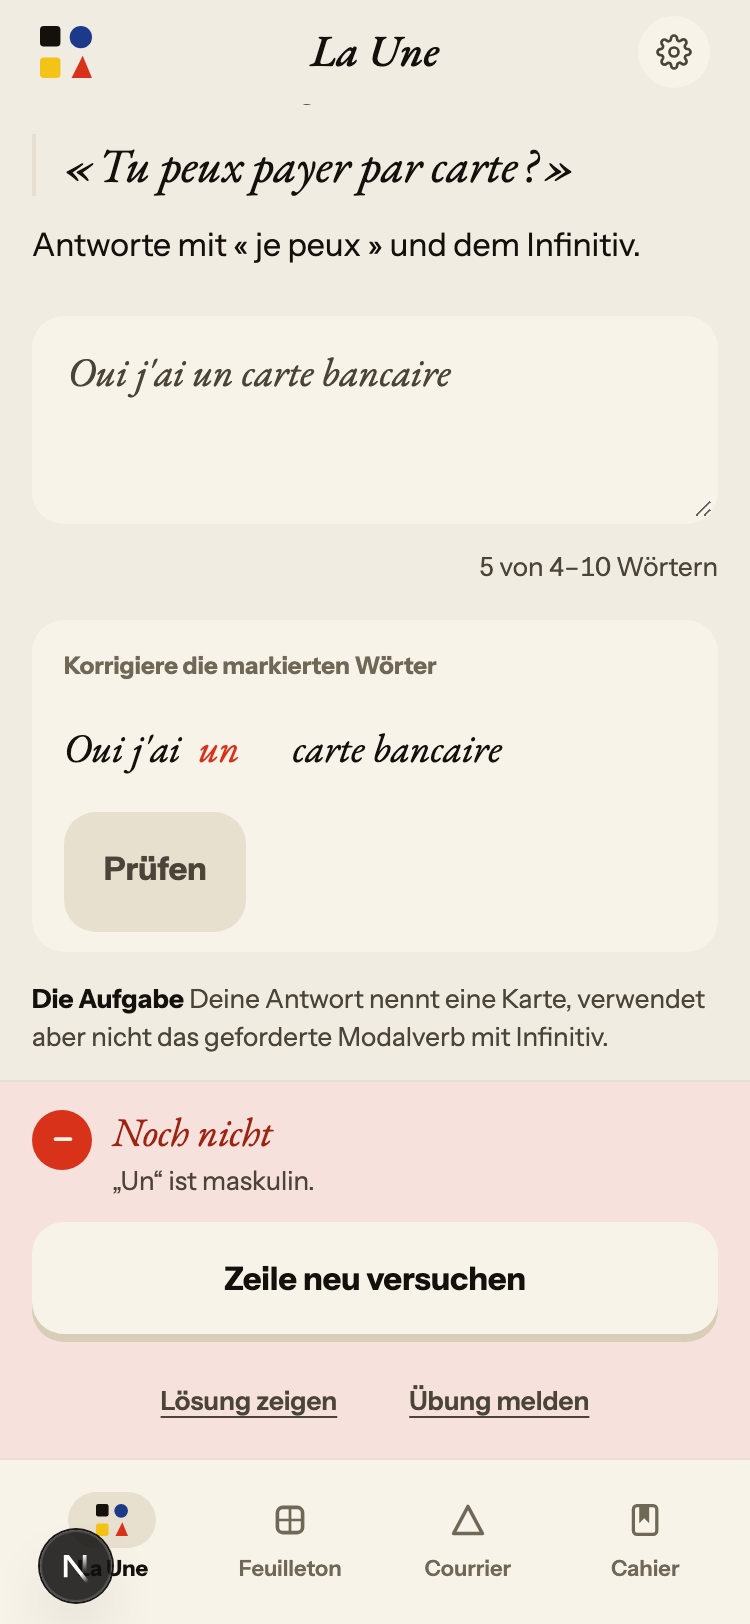
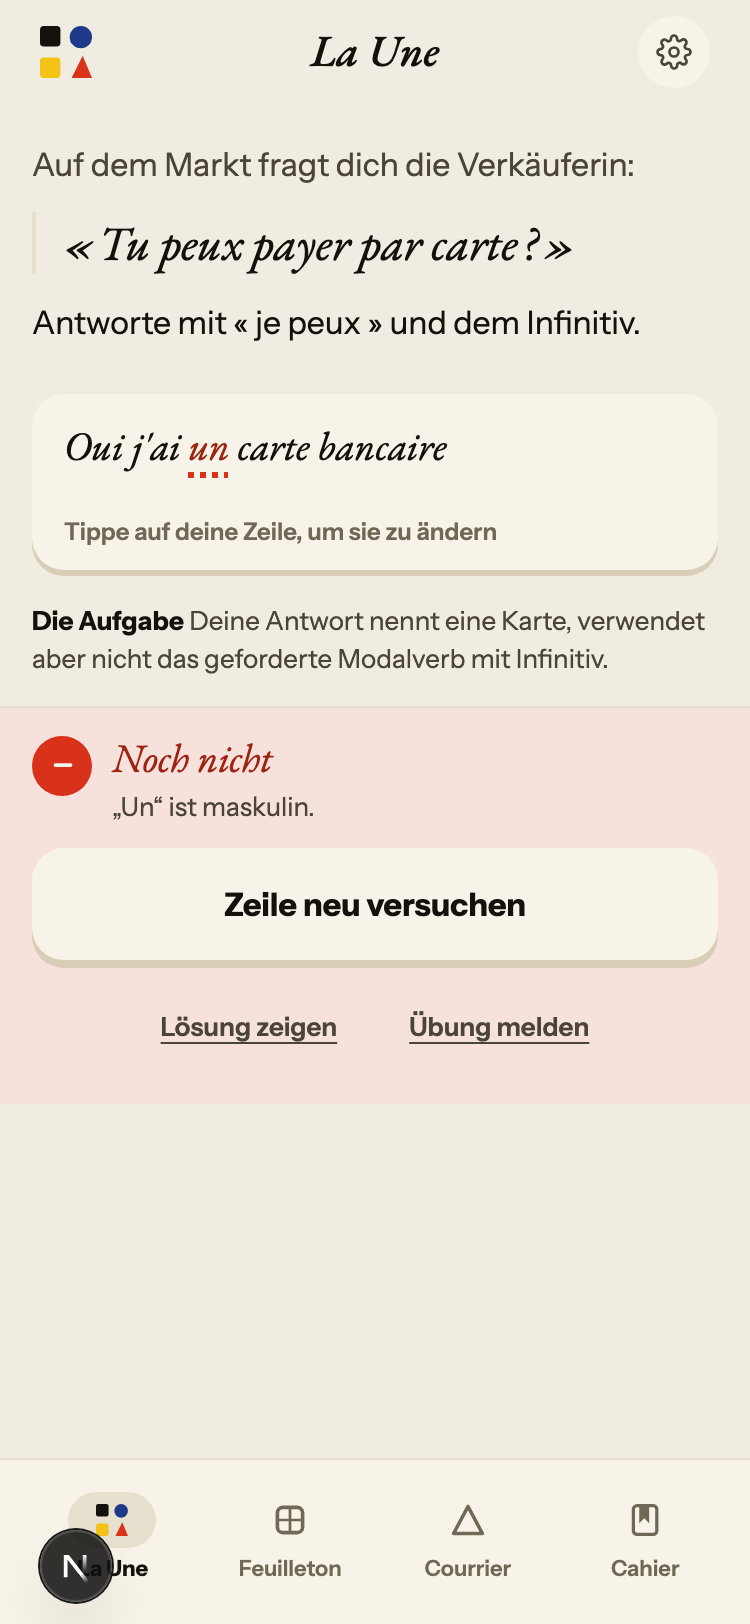
feat(forge): one button, one card, the listen button in the line
- A free line fixed in place is checked from the band: one button, no
  second «Check» in the card, no third link.
- Once the solution is shown, the right line and its copy field are one
  card.
- A right line that is the model line is heard from its own corner; the
  sentence is not printed a third time to be heard.
- The marked word is lifted in dark mode, as the band's title is.

Screens retaken for every state (docs/walks/2026-11-19-forge-calm-miss).

diff --git a/web-frontend/pages/atelier.tsx b/web-frontend/pages/atelier.tsx
@@ -4190,19 +4190,22 @@ function CheckedLine({
   state,
   line,
   correction,
-  production = false,
   onEdit,
+  listen = '',
 }: {
   state: AnswerState;
   line: string;
   correction: Record<string, any> | null;
-  production?: boolean;
   onEdit?: () => void;
+  /** The model line to hear. When it is the line the learner wrote, its button sits in the line's corner. */
+  listen?: string;
 }) {
   const t = useEpCopy();
   const text = String(line || '').trim();
   if (!state || !text) return null;
-  if (state === 'right') return <EpAnswerLine tone="right" segments={[{ text }]} />;
+  if (state === 'right') {
+    return <EpAnswerLine tone="right" segments={[{ text }]} foot={heardInPlace(state, text, listen) ? <EpreuveModelAudio text={listen} compact /> : undefined} />;
+  }
   if (state === 'open') {
     const marked = String(correction?.marked_line || text);
     return <EpAnswerLine tone="open" segments={markedLine(marked, correction?.marks)} onEdit={onEdit} editHint={onEdit ? t.answer_edit : undefined} />;
@@ -4212,6 +4215,11 @@ function CheckedLine({
     ? parts.map((part) => ('text' in part ? { text: part.text } : { text: part.wrong, marked: true }))
     : [{ text }];
   return <EpAnswerLine tone="shown" segments={segments} />;
+}
+
+/** A right line that is also the model line is heard from its own corner, not printed again. */
+function heardInPlace(state: AnswerState, line: string, listen: string) {
+  return state === 'right' && Boolean(listen.trim()) && normalizeClient(listen) === normalizeClient(line);
 }
 
 /** Is the checked line drawn by the panel (true), or is the field still the answer's place? */
@@ -4419,8 +4427,6 @@ export function ExerciseFeedbackMoment({
               setPartsTyped((prev) => ({ ...prev, [repairKey]: next }));
               onSetRepairDraft(repairKey, assembleRepair(inPlace, next));
             }}
-            onSubmit={() => onSubmitRepair(0)}
-            submitting={!!repairSubmitting[repairKey]}
           >
             {more}
           </EpPartsRepair>
@@ -4428,10 +4434,20 @@ export function ExerciseFeedbackMoment({
         {hints.task && hints.task !== hints.reason && <EpTaskLine label={t.task}>{hints.task}</EpTaskLine>}
         <EpFoot tone="wrong">
           <EpVerdict tone="no" sub={hints.reason || t.miss_sub} coach={coach} coachMood={mood} attempt={attempt}>{t.verdict_wrong}</EpVerdict>
-          {/* A line fixed in place has its own «Check»: writing it again whole is the quiet way. */}
+          {/* One button either way. A line fixed in place is checked from here; any other is opened again. */}
+          {inPlace && (
+            <EpBar
+              tone="go"
+              icon="check"
+              disabled={Object.keys(partsTyped[repairKey] || {}).length === 0}
+              pending={!!repairSubmitting[repairKey]}
+              onClick={() => onSubmitRepair(0)}
+            >
+              {repairSubmitting[repairKey] ? t.repair_submitting : t.repair_submit}
+            </EpBar>
+          )}
           {onTryAgain && !inPlace && <EpBar tone="ghost" icon="retry" onClick={onTryAgain}>{production ? t.retry_line : t.retry}</EpBar>}
           <div className="ep-fb-links">
-            {onTryAgain && inPlace && <button type="button" data-action="rewrite" onClick={onTryAgain}>{t.retry_line}</button>}
             {onRevealSolution && (
               <button type="button" data-action="reveal" onClick={onRevealSolution} disabled={revealing} aria-busy={revealing || undefined}>
                 {revealing ? t.showing_solution : t.show_solution}
@@ -4905,11 +4921,11 @@ function TransformPanel({
   const sentence = String(item.source_fr || item.source || '');
   // La Forge says a miss's right line once, in its correction; a right answer
   // hears it here.
-  const modelAudio = submitted && !solutionWithheld(correction) && !(drill && correction?.verdict !== 'correct') && (() => {
+  const modelText = submitted && !solutionWithheld(correction) && !(drill && correction?.verdict !== 'correct') && (() => {
     const corrected = correction?.corrected_answer;
     const correctedForItem = corrected && typeof corrected === 'object' ? corrected[item.id] : undefined;
     const modelText = String(correctedForItem || item.expected_answer || answers[item.id] || '').trim();
-    return modelText ? <EpreuveModelAudio text={modelText} /> : null;
+    return modelText;
   })();
   if (spotted) {
     // The sentence is the exercise: its goal above it, never the sentence twice.
@@ -4929,7 +4945,7 @@ function TransformPanel({
           copy={fc}
           fixWords={item.fix_words}
         />
-        {modelAudio}
+        {modelText ? <EpreuveModelAudio text={modelText} /> : null}
       </div>
     );
   }
@@ -4940,7 +4956,7 @@ function TransformPanel({
         {item.source}
       </EpPrompt>
       {lineIsEchoed(answerState, String(answers[item.id] || ''), correction, false) ? (
-        <CheckedLine state={answerState} line={String(answers[item.id] || '')} correction={correction} onEdit={onRetry} />
+        <CheckedLine state={answerState} line={String(answers[item.id] || '')} correction={correction} onEdit={onRetry} listen={modelText || ''} />
       ) : (
         <textarea
           className="ep-composed-input"
@@ -4950,7 +4966,7 @@ function TransformPanel({
           readOnly={submitted || sending}
         />
       )}
-      {modelAudio}
+      {modelText && !heardInPlace(answerState, String(answers[item.id] || ''), modelText) ? <EpreuveModelAudio text={modelText} /> : null}
     </div>
   );
 }
@@ -5133,7 +5149,7 @@ function browserSpeak(text: string, onDone: () => void) {
   if (!speakAskedVoice(utterance)) onDone();
 }
 
-function EpreuveModelAudio({ text }: { text: string }) {
+function EpreuveModelAudio({ text, compact = false }: { text: string; compact?: boolean }) {
   const [playing, setPlaying] = useState(false);
   const value = String(text || '').trim();
   if (!value) return null;
@@ -5153,7 +5169,7 @@ function EpreuveModelAudio({ text }: { text: string }) {
       browserSpeak(value, () => setPlaying(false));
     }
   };
-  return <EpListen fr={value} playing={playing} onPlay={play} />;
+  return <EpListen fr={compact ? undefined : value} playing={playing} onPlay={play} />;
 }
 
 function EpreuveWiringStyles() {
@@ -5303,6 +5319,9 @@ export function OutputLadderPanel({
   const speakerInFigure = Boolean(round === 'conversation' && split && character.name);
   // The prompt's own instruction says what to do: the generic round cue would say it twice.
   const promptCue = split?.instruction ? item.instruction || undefined : item.instruction || instruction;
+  const modelText = submitted
+    ? String(seanceAssessment(correction) === 'correct' && productionPhase(correction) !== 'checking' ? correction?.corrected_answer || item.example_answer || '' : '').trim()
+    : '';
   return (
     <div className={`ep-exercise ep-output ep-output-${round}`} data-prompt={split ? 'scene' : 'line'}>
       {round === 'conversation' && character.name && !speakerInFigure && (
@@ -5343,7 +5362,7 @@ export function OutputLadderPanel({
       )}
       {/* Once checked, the line is read where it was written; the count was for writing it. */}
       {answerState && answer.trim() ? (
-        lineIsEchoed(answerState, answer, correction, true) && <CheckedLine state={answerState} line={answer} correction={correction} production onEdit={onRetry} />
+        lineIsEchoed(answerState, answer, correction, true) && <CheckedLine state={answerState} line={answer} correction={correction} onEdit={onRetry} listen={modelText} />
       ) : (
         <>
           <textarea
@@ -5358,10 +5377,7 @@ export function OutputLadderPanel({
           </div>
         </>
       )}
-      {submitted && (() => {
-        const modelText = String(seanceAssessment(correction) === 'correct' && productionPhase(correction) !== 'checking' ? correction?.corrected_answer || item.example_answer || '' : '').trim();
-        return modelText ? <EpreuveModelAudio text={modelText} /> : null;
-      })()}
+      {modelText && !heardInPlace(answerState, answer, modelText) ? <EpreuveModelAudio text={modelText} /> : null}
       {round === 'conversation' && submitted && worldReply.text && (
         <blockquote className="ep-world-reply">
           <span>{worldReply.character?.name || character.name}</span>
@@ -5430,7 +5446,7 @@ function ProducePanel({
         </div>
       )}
       {answerState && answer.trim() ? (
-        lineIsEchoed(answerState, answer, correction, true) && <CheckedLine state={answerState} line={answer} correction={correction} production onEdit={onRetry} />
+        lineIsEchoed(answerState, answer, correction, true) && <CheckedLine state={answerState} line={answer} correction={correction} onEdit={onRetry} />
       ) : (
         <>
           <textarea className="ep-composed-input" value={answer} onChange={(event) => updateAnswer(event.target.value)} placeholder={t.produce_placeholder} readOnly={submitted || sending} />

diff --git a/web-frontend/components/epreuve/Epreuve.tsx b/web-frontend/components/epreuve/Epreuve.tsx
@@ -721,12 +721,15 @@ export function EpAnswerLine({
   tone,
   onEdit,
   editHint,
+  foot,
 }: {
   segments: AnswerSegment[];
   tone: 'open' | 'shown' | 'right';
   /** The second chance: a tap on the line opens it again, as the learner wrote it. */
   onEdit?: () => void;
   editHint?: Node;
+  /** A right line's own listen button, in its corner: the line is not printed again to be heard. */
+  foot?: Node;
 }) {
   const line = (
     <span className="ep-answer__line" lang="fr">
@@ -743,7 +746,12 @@ export function EpAnswerLine({
       </button>
     );
   }
-  return <p className="ep-answer" data-tone={tone}>{line}</p>;
+  return (
+    <div className="ep-answer" data-tone={tone}>
+      {line}
+      {foot && <div className="ep-answer__foot">{foot}</div>}
+    </div>
+  );
 }
 
 /* ---------- typed micro-repair ---------- */
@@ -910,7 +918,7 @@ export function EpPartsRepair({
 }
 
 /* ---------- écouter + shadowing ---------- */
-export function EpListen({ fr, disabled, playing, onPlay }: { fr: Node; disabled?: boolean; playing?: boolean; onPlay?: () => void }) {
+export function EpListen({ fr, disabled, playing, onPlay }: { fr?: Node; disabled?: boolean; playing?: boolean; onPlay?: () => void }) {
   const t = useEpCopy();
   const label = disabled ? t.listen_unavailable : playing ? t.listen_playing : t.listen;
   return (
@@ -918,10 +926,13 @@ export function EpListen({ fr, disabled, playing, onPlay }: { fr: Node; disabled
       <IconAction label={label} pressable onClick={onPlay} disabled={disabled} pending={playing}>
         {playing ? <SpinnerToken /> : EpIco.play}
       </IconAction>
-      <div className="ep-listen__text">
-        <p className="av2-label">{label}</p>
-        <p className="av2-fr ep-listen__fr" lang="fr">{fr}</p>
-      </div>
+      {/* Without its line the button stands alone: the line is on screen where it was written. */}
+      {fr != null && (
+        <div className="ep-listen__text">
+          <p className="av2-label">{label}</p>
+          <p className="av2-fr ep-listen__fr" lang="fr">{fr}</p>
+        </div>
+      )}
     </div>
   );
 }
@@ -1437,7 +1448,6 @@ export function LEpreuveStyles() {
   justify-content: space-between;
   gap: 14px;
   width: 100%;
-  min-height: 5.5rem;
   margin: 0;
   padding: 0.75rem 1rem;
   border: 0;
@@ -1448,6 +1458,8 @@ export function LEpreuveStyles() {
   font: inherit;
   animation: av2-fade 0.25s;
 }
+.av2 .ep-answer[data-tone='open'] { min-height: 5.5rem; }
+.av2 .ep-answer__foot { display: flex; justify-content: flex-end; }
 .av2 button.ep-answer { box-shadow: 0 var(--av2-press-sm) 0 var(--av2-line-2); cursor: pointer; touch-action: manipulation; }
 .av2 button.ep-answer:active { transform: translateY(var(--av2-press-sm)); box-shadow: none; }
 .av2 .ep-answer__line { font-family: var(--av2-serif); font-style: italic; font-size: var(--av2-t-option); line-height: 1.4; overflow-wrap: anywhere; }
@@ -1458,6 +1470,14 @@ export function LEpreuveStyles() {
 .av2 .ep-answer[data-tone='right'] .ep-answer__line { color: var(--av2-green); }
 .av2 .ep-output > .ep-answer,
 .av2 .ep-produce-panel > .ep-answer { margin-top: 8px; }
+/* The second chance taken in place: the same well, the marked words as fields, and the
+   gesture said under the line as it is under a marked one. Its «Check» is the band's. */
+.av2 .ep-feedback[data-in-place='true'] > .ep-repair--parts { padding: 0.75rem 1rem; gap: 6px; box-shadow: none; }
+.av2 .ep-feedback[data-in-place='true'] > .ep-repair--parts > .av2-field__label { order: 2; margin: 0; font: 600 var(--av2-t-meta)/1.3 var(--av2-sans); color: var(--av2-muted); }
+.av2 .ep-feedback[data-in-place='true'] > .ep-repair--parts > .ep-more { order: 3; }
+/* Once the solution is shown, the right line and its copy are one card, not two. */
+.av2 .ep-feedback > .ep-galley:has(+ .ep-repair) { border-bottom-left-radius: 0; border-bottom-right-radius: 0; padding-bottom: 4px; }
+.av2 .ep-feedback > .ep-galley + .ep-repair { margin-top: -14px; padding: 10px 12px 14px; border-top-left-radius: 0; border-top-right-radius: 0; box-shadow: none; }
 .av2 .ep-composed-input::placeholder { color: var(--av2-muted); font-style: italic; }
 .av2 .ep-composed-input[readonly] { color: var(--av2-ink-2); }
 .av2 .ep-field__ph { color: var(--av2-muted); }

diff --git a/web-frontend/components/epreuve/forge-beauty.test.js b/web-frontend/components/epreuve/forge-beauty.test.js
@@ -466,7 +466,8 @@ test('a miss with its chance open is read in two places: the line and the band (
   assert.doesNotMatch(PAGE, /miss_choice|miss_where/, 'the cards\' labels are gone');
   // The typed line takes its field's place in every panel that has one.
   assert.equal((PAGE.match(/<CheckedLine state=\{answerState\}/g) || []).length, 3, 'transform, free line and produce draw the checked line');
-  assert.match(PAGE, /\{onTryAgain && !inPlace && <EpBar tone="ghost" icon="retry"/, 'a line fixed in place has one button, its own «Check»');
+  assert.match(PAGE, /\{onTryAgain && !inPlace && <EpBar tone="ghost" icon="retry"/, 'a line fixed in place has one button, the band\'s «Check»');
+  assert.match(withheld, /\{inPlace && \(\s*<EpBar\s+tone="go"/, 'which checks the line fixed in place');
   const ep = fs.readFileSync(path.join(__dirname, 'Epreuve.tsx'), 'utf8');
   assert.match(ep, /export function EpAnswerLine\(/);
   assert.match(ep, /<button type="button" className="ep-answer" data-tone=\{tone\} onClick=\{onEdit\}>/, 'a tap on the marked line opens it again');

diff --git a/web-frontend/components/epreuve/forge-drills.test.js b/web-frontend/components/epreuve/forge-drills.test.js
@@ -395,7 +395,7 @@ test('the page poses each format: typed, dictation, spot and mine, rafale', () =
   assert.match(transform, /updateAnswer\(item\.id, spotChanged\(tokens, edits\) \? spotAnswer\(tokens, edits\) : ''\);/);
   // The right line once: a miss reads it in its correction, a right answer hears it.
   // Owner 2026-11-13: and never while a second chance is open.
-  assert.match(transform, /const modelAudio = submitted && !solutionWithheld\(correction\) && !\(drill && correction\?\.verdict !== 'correct'\) && /);
+  assert.match(transform, /const modelText = submitted && !solutionWithheld\(correction\) && !\(drill && correction\?\.verdict !== 'correct'\) && /);
 
   const session = PAGE.slice(PAGE.indexOf('function SessionView('), PAGE.indexOf('function ActionRow('));
   assert.match(session, /\{isNamedDrill\(drill\) && \(drill !== 'rafale' \|\| rafale\) && <ForgeDrillTag drill=\{drill\} copy=\{fc\} \/>\}/);

diff --git a/web-frontend/styles/atelier-v2.css b/web-frontend/styles/atelier-v2.css
@@ -2508,6 +2508,18 @@
     color: var(--av2-red);
   }
 }
+/* The marked word of a missed line (EpAnswerLine) is body-size text on the dark card:
+   the same lift, for the same reason. */
+:root[data-theme='dark'] .av2:not(.av2--light) .ep-answer[data-tone='open'] .ep-mark,
+.av2--dark .ep-answer[data-tone='open'] .ep-mark {
+  color: var(--av2-red);
+}
+@media (prefers-color-scheme: dark) {
+  :root[data-theme='system'] .av2:not(.av2--light) .ep-answer[data-tone='open'] .ep-mark,
+  :root:not([data-theme]) .av2:not(.av2--light) .ep-answer[data-tone='open'] .ep-mark {
+    color: var(--av2-red);
+  }
+}
 
 /* WP-77 — faces. A portrait disc that has a drawn face shows it edge to edge;
    the small byline disc grows a little so a face is still a face. */
